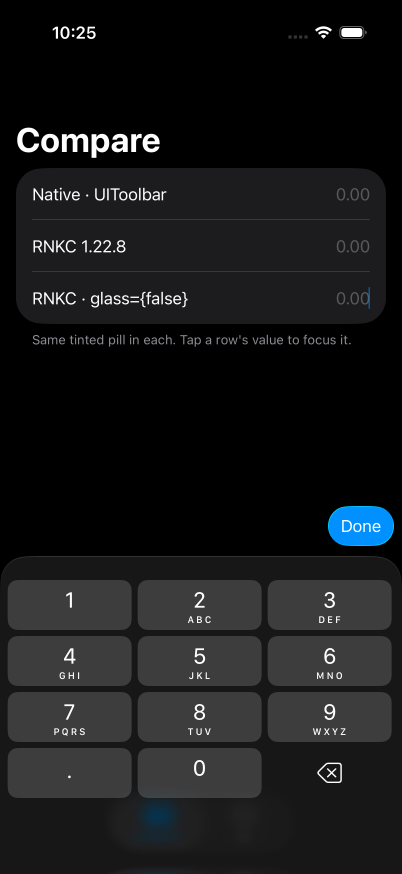
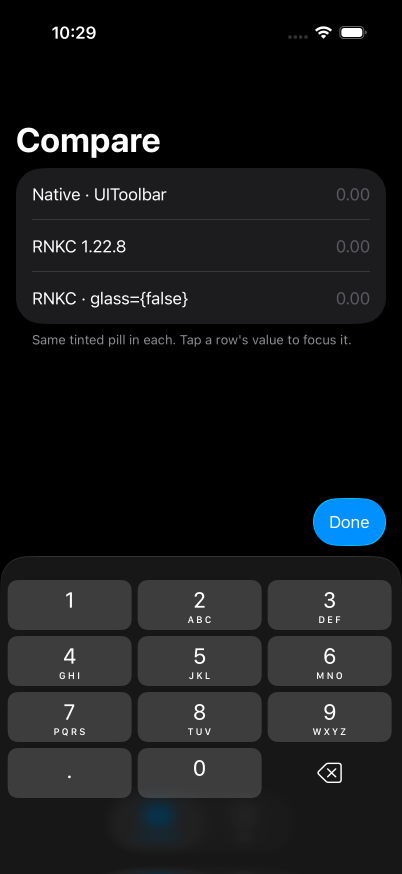
Size the RNKC demo pill like the native item (73x48pt, 16pt inset)

Changed region(s): [[0.7761, 0.5561, 0.9851, 0.6487], [0.1493, 0.0309, 0.2388, 0.0618]]

diff --git a/Sources/RNKCField.swift b/Sources/RNKCField.swift
@@ -18,7 +18,10 @@ struct RNKCField: UIViewRepresentable {
   let variant: RNKCVariant
   var testID: String? = nil
 
-  private static let barHeight: CGFloat = 40  // the pill alone; the container supplies the 10pt float
+  // Native UIToolbar `.prominent` "Done", measured on iOS 26: 73×48pt, 16pt from the trailing edge.
+  private static let pillSize = CGSize(width: 73, height: 48)
+  private static let trailingInset: CGFloat = 16
+  private static let barHeight = pillSize.height  // the pill alone; the container adds the 10pt float
 
   final class Coordinator {
     var container: UIView?
@@ -78,14 +81,14 @@ struct RNKCField: UIViewRepresentable {
   }
 
   /// What `@callstack/liquid-glass`'s `LiquidGlassView` renders: a `UIGlassEffect` view, tinted,
-  /// interactive, capsule-cornered, at the trailing edge with 8pt inset.
+  /// interactive, capsule-cornered, sized and inset like the native item.
   private static func tintedPill(width: CGFloat, action: UIAction) -> UIView {
     let effect = UIGlassEffect()
     effect.tintColor = .tintColor
     effect.isInteractive = true
     let glass = UIVisualEffectView(effect: effect)
     glass.cornerConfiguration = .capsule()
-    glass.frame = CGRect(x: width - 8 - 66, y: 0, width: 66, height: 40)
+    glass.frame = pillFrame(width: width)
 
     var config = UIButton.Configuration.plain()
     config.title = "Done"
@@ -100,7 +103,11 @@ struct RNKCField: UIViewRepresentable {
     var config = UIButton.Configuration.plain()
     config.title = "Done"
     let button = UIButton(configuration: config, primaryAction: action)
-    button.frame = CGRect(x: width - 16 - 66, y: 0, width: 66, height: 40)
+    button.frame = pillFrame(width: width)
     return button
+  }
+
+  private static func pillFrame(width: CGFloat) -> CGRect {
+    CGRect(origin: CGPoint(x: width - trailingInset - pillSize.width, y: 0), size: pillSize)
   }
 }
